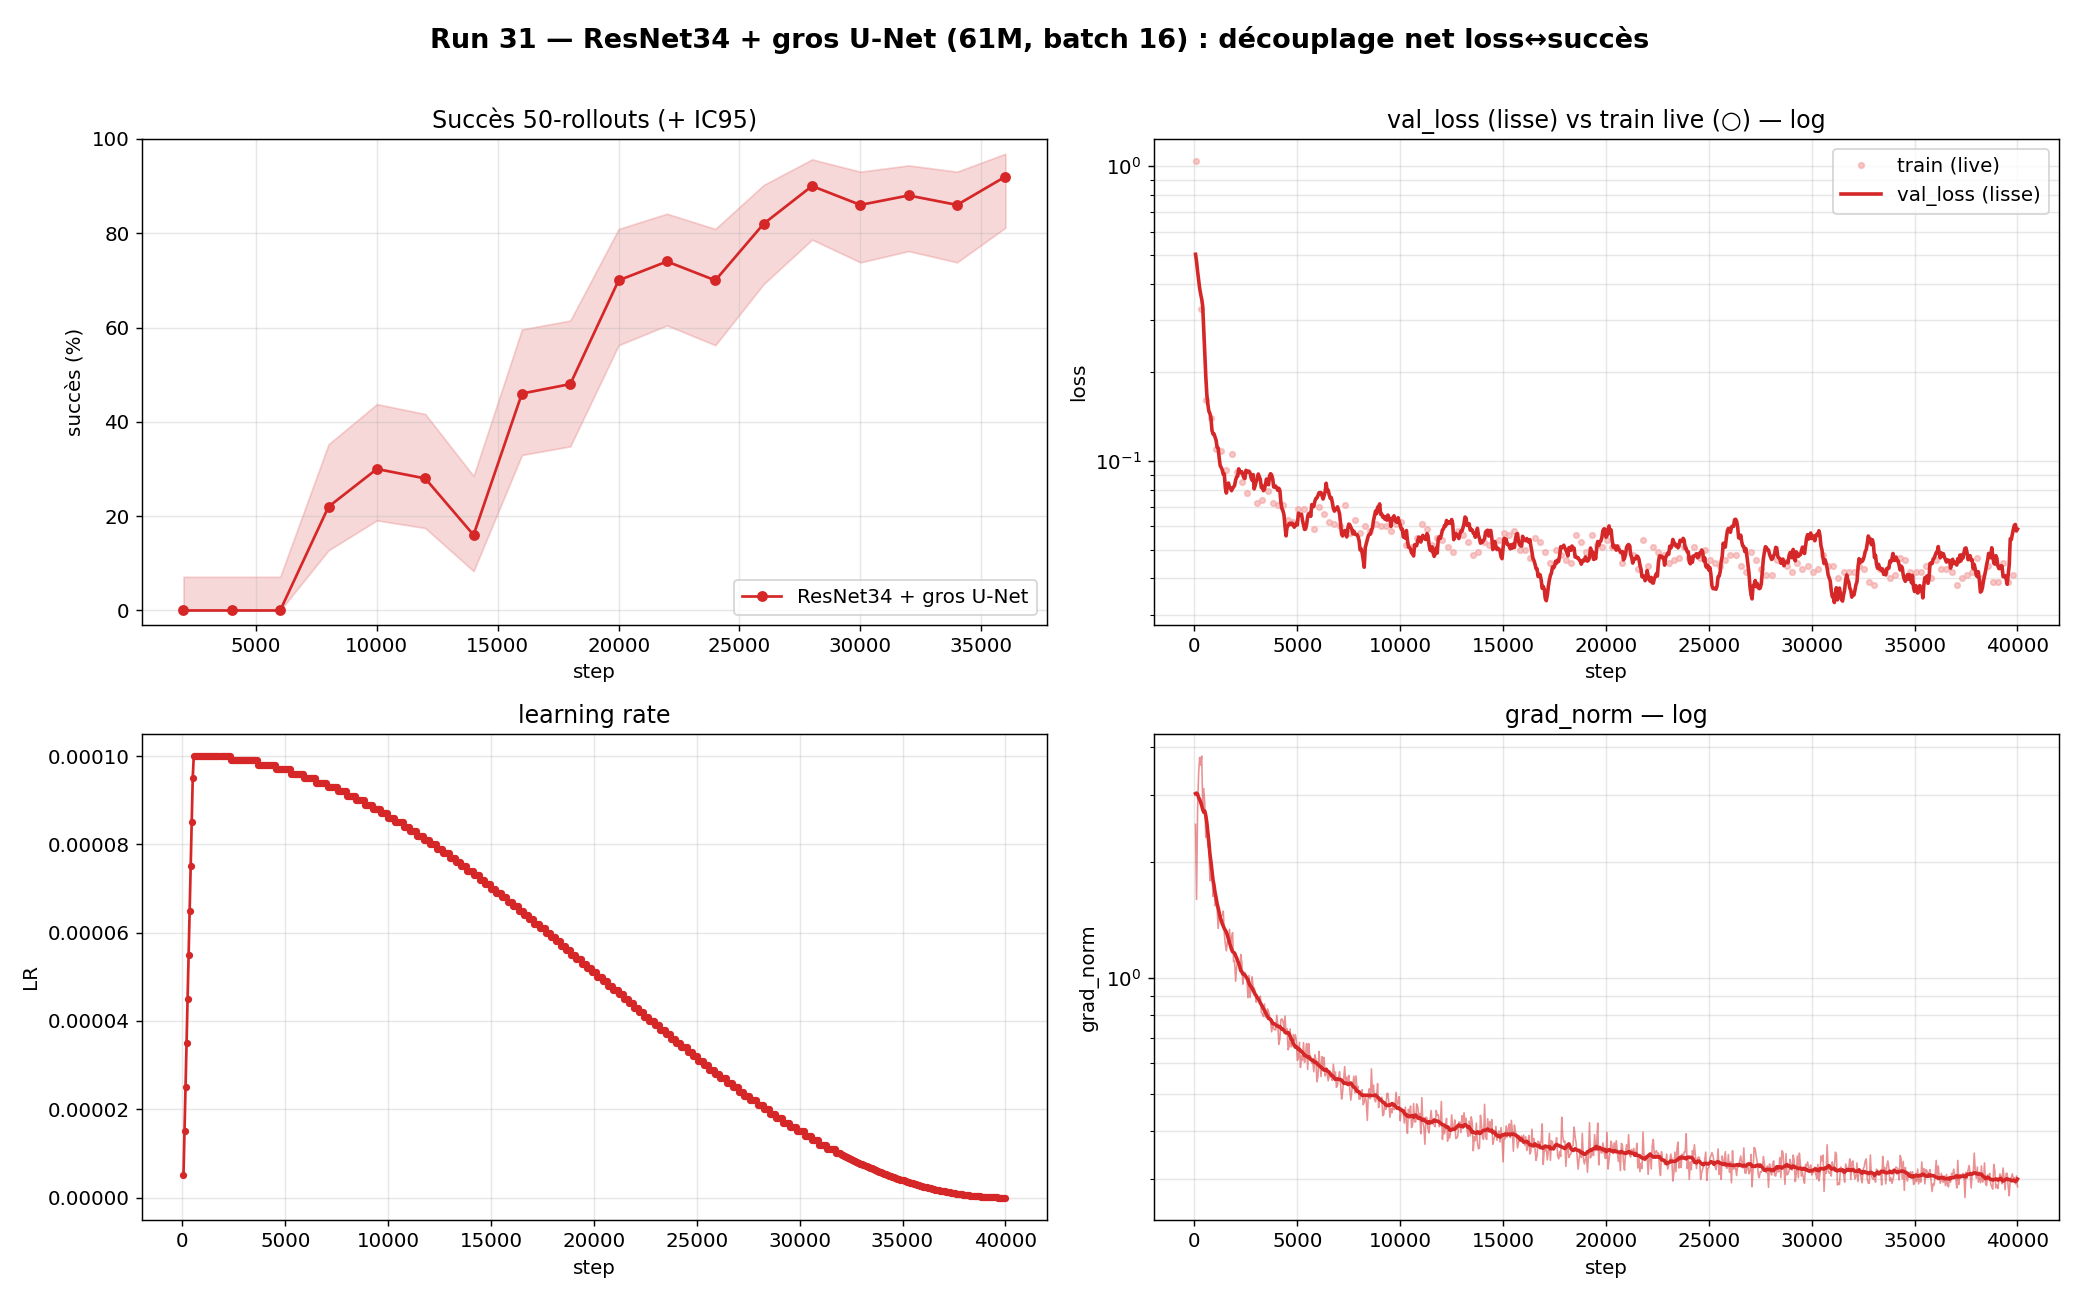
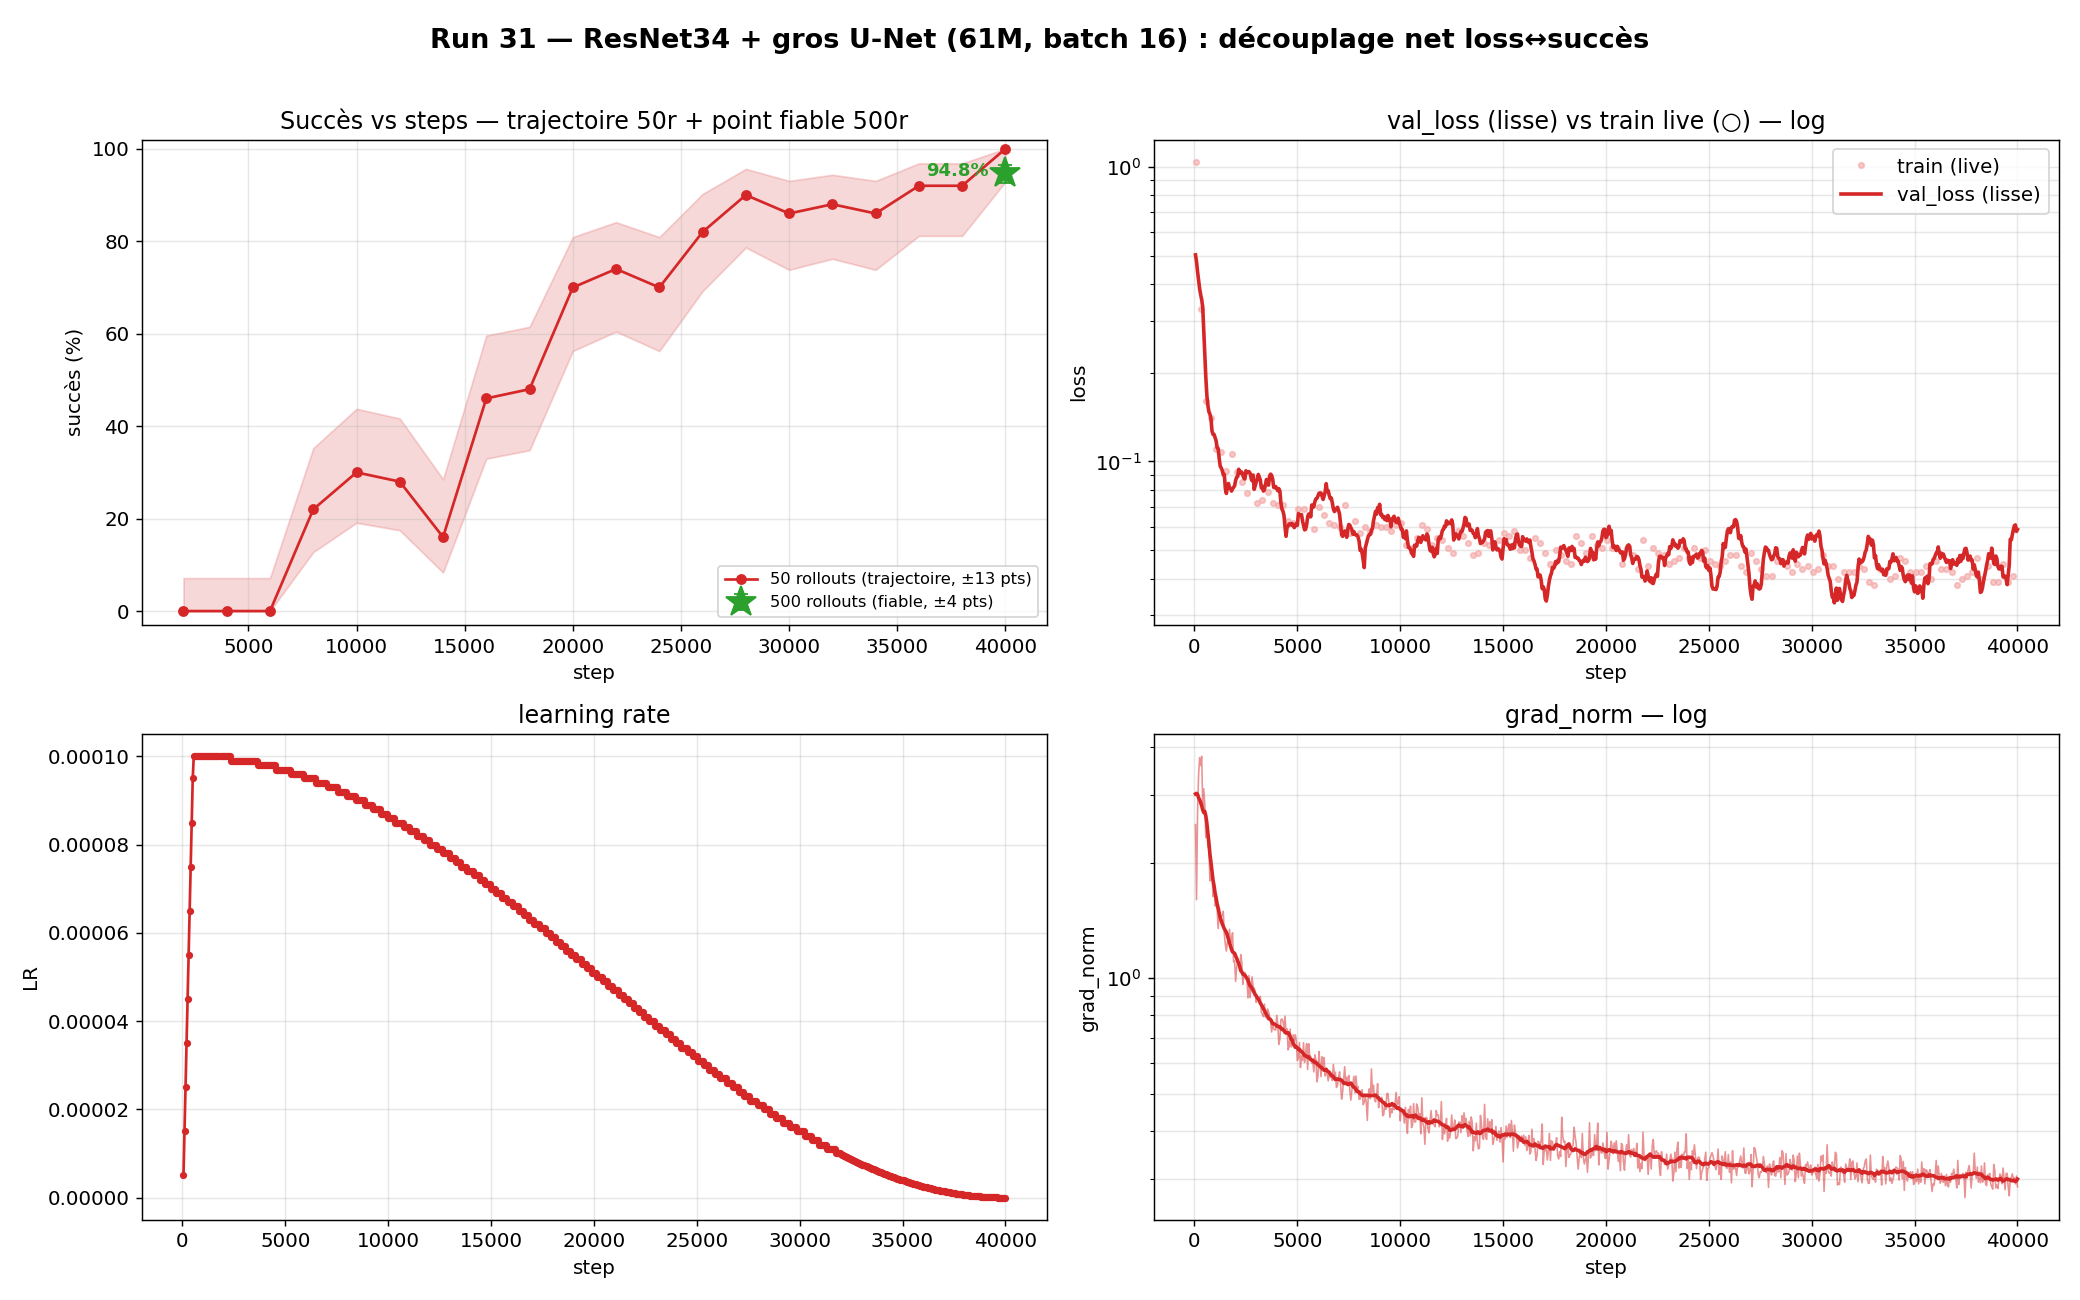
run31: courbe complète (trajectoire 50r 2k-40k + point fiable 500r=94.8%)

diff --git a/experiments/can/35_plot_run31_full.py b/experiments/can/35_plot_run31_full.py
@@ -54,12 +54,26 @@ hi = np.array([float(r["ci95_high"]) * 100 for r in sc])
 plt.rcParams.update({"font.size": 11})
 fig, ax = plt.subplots(2, 2, figsize=(16, 10))
 
-# --- succès + IC95 ---
+# --- succès + IC95 (trajectoire 50 rollouts) ---
 a = ax[0, 0]
 a.fill_between(ss, lo, hi, color=C, alpha=0.18)
-a.plot(ss, sr, "-o", color=C, ms=5, label="ResNet34 + gros U-Net")
-a.set_title("Succès 50-rollouts (+ IC95)"); a.set_xlabel("step"); a.set_ylabel("succès (%)")
-a.set_ylim(-3, 100); a.grid(alpha=0.3); a.legend(loc="lower right")
+a.plot(ss, sr, "-o", color=C, ms=5, label="50 rollouts (trajectoire, ±13 pts)")
+# point(s) fiable(s) à 500 rollouts en surimpression
+import os
+if os.path.exists(RUN + "/eval500_best.csv"):
+    e5 = list(csv.DictReader(open(RUN + "/eval500_best.csv")))
+    e5s = np.array([int(float(r["step"])) for r in e5])
+    e5r = np.array([float(r["success_rate"]) * 100 for r in e5])
+    e5lo = np.array([float(r["ci95_low"]) * 100 for r in e5])
+    e5hi = np.array([float(r["ci95_high"]) * 100 for r in e5])
+    a.errorbar(e5s, e5r, yerr=[e5r - e5lo, e5hi - e5r], fmt="*", color="#2ca02c",
+               ms=18, capsize=4, lw=1.5, zorder=5, label="500 rollouts (fiable, ±4 pts)")
+    for x, y in zip(e5s, e5r):
+        a.annotate(f"{y:.1f}%", (x, y), textcoords="offset points", xytext=(-44, -2),
+                   fontsize=10, color="#2ca02c", fontweight="bold")
+a.set_title("Succès vs steps — trajectoire 50r + point fiable 500r")
+a.set_xlabel("step"); a.set_ylabel("succès (%)")
+a.set_ylim(-3, 102); a.grid(alpha=0.3); a.legend(loc="lower right", fontsize=9)
 
 # --- val_loss lisse vs train live (log) ---
 a = ax[0, 1]
